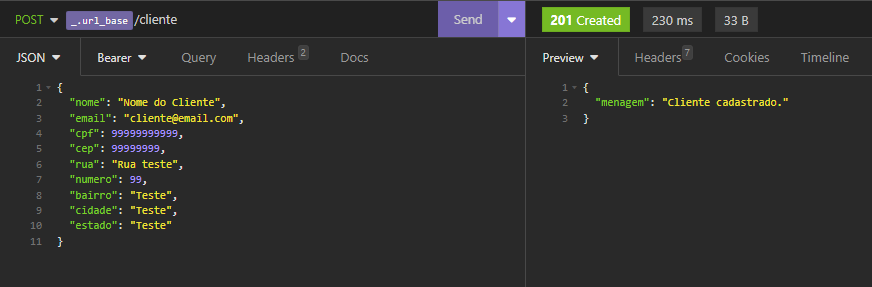
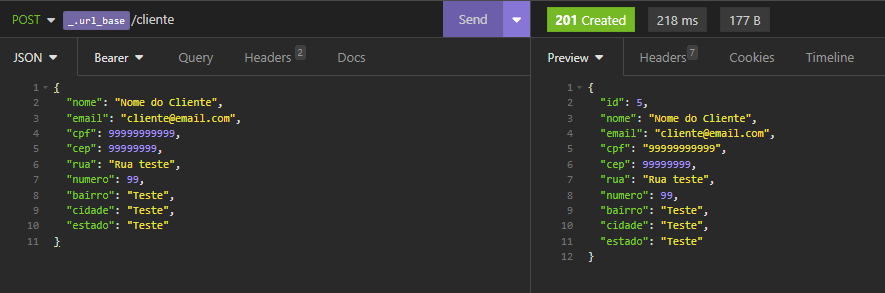
Feat: Ajuste no readme

diff --git a/README.md b/README.md
@@ -268,8 +268,7 @@ OU
 
 #### Observação: Os campos nome, email e cpf são obrigatórios.
 
-//COLOCAR IMAGEM APÓS ALTERAÇÃO
-<img src='./assets/client/' width ='1000'>
+<img src='./assets/client/regist_client.png' width ='1000'>
 
 ---
 
